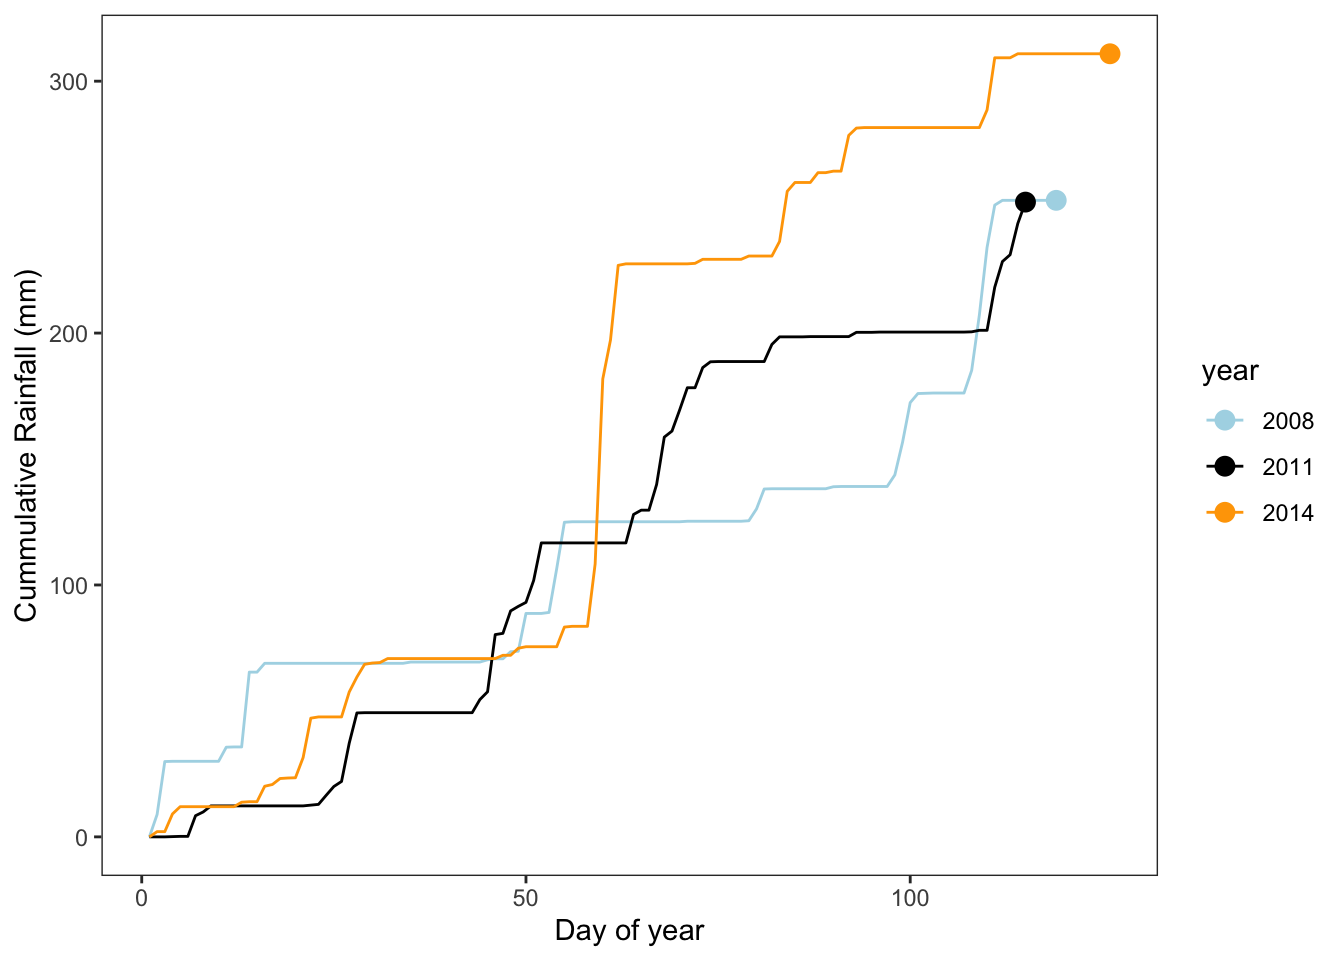
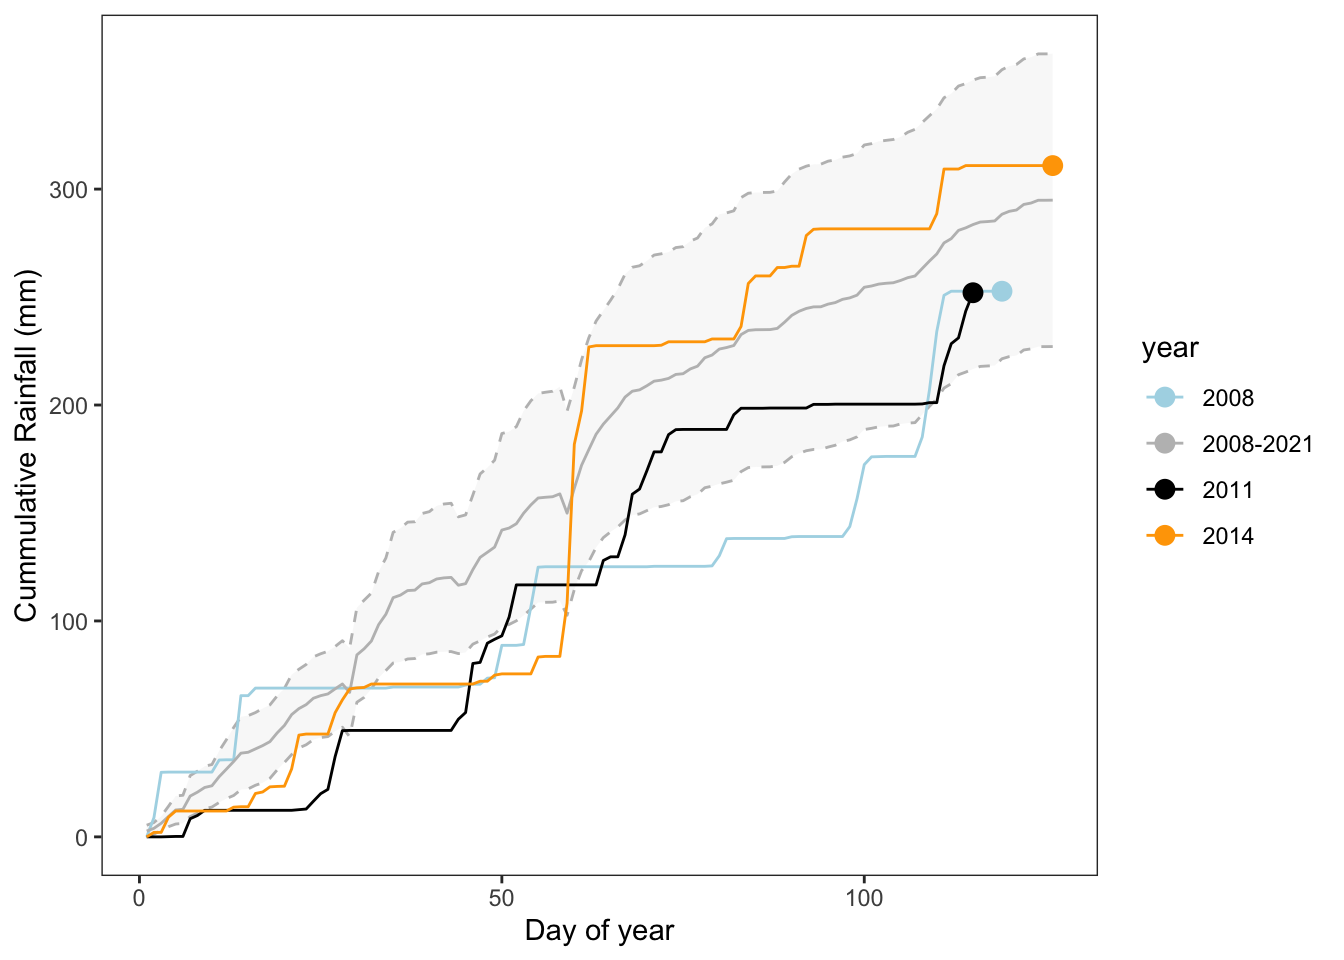
Build site.

diff --git a/docs/climate_data.html b/docs/climate_data.html
@@ -13,7 +13,7 @@
 
 <title>climate_data</title>
 
-<script src="site_libs/header-attrs-2.18/header-attrs.js"></script>
+<script src="site_libs/header-attrs-2.19/header-attrs.js"></script>
 <script src="site_libs/jquery-3.6.0/jquery-3.6.0.min.js"></script>
 <meta name="viewport" content="width=device-width, initial-scale=1" />
 <link href="site_libs/bootstrap-3.3.5/css/cosmo.min.css" rel="stylesheet" />
@@ -380,7 +380,7 @@ class="glyphicon glyphicon-ok text-success" aria-hidden="true"></span>
 <div class="tab-content">
 <div id="summary" class="tab-pane fade in active">
 <p>
-<strong>Last updated:</strong> 2023-02-24
+<strong>Last updated:</strong> 2023-03-08
 </p>
 <p>
 <strong>Checks:</strong> <span
@@ -511,15 +511,15 @@ project makes it easier to run your code on other machines.</p>
 <div class="panel panel-default">
 <div class="panel-heading">
 <p class="panel-title">
-<a data-toggle="collapse" data-parent="#workflowr-checks" href="#strongRepositoryversionstrongahrefhttpsgithubcomajpelumslanjaronmicrotreeba907abdcb67bb5e1bf7582fc86e49f3c34dd8fftargetblankba907aba">
+<a data-toggle="collapse" data-parent="#workflowr-checks" href="#strongRepositoryversionstrongahrefhttpsgithubcomajpelumslanjaronmicrotree434fc9b4fe355ebecb0b87dc1ce0a85cc5d3ff8dtargetblank434fc9ba">
 <span class="glyphicon glyphicon-ok text-success"
 aria-hidden="true"></span> <strong>Repository version:</strong>
-<a href="https://github.com/ajpelu/ms_lanjaron_micro/tree/ba907abdcb67bb5e1bf7582fc86e49f3c34dd8ff" target="_blank">ba907ab</a>
+<a href="https://github.com/ajpelu/ms_lanjaron_micro/tree/434fc9b4fe355ebecb0b87dc1ce0a85cc5d3ff8d" target="_blank">434fc9b</a>
 </a>
 </p>
 </div>
 <div
[2 lines of base64/hex data omitted]
 class="panel-collapse collapse">
 <div class="panel-body">
 <p>
@@ -529,7 +529,7 @@ reproducibility.
 </p>
 <p>
 The results in this page were generated with repository version
-<a href="https://github.com/ajpelu/ms_lanjaron_micro/tree/ba907abdcb67bb5e1bf7582fc86e49f3c34dd8ff" target="_blank">ba907ab</a>.
+<a href="https://github.com/ajpelu/ms_lanjaron_micro/tree/434fc9b4fe355ebecb0b87dc1ce0a85cc5d3ff8d" target="_blank">434fc9b</a>.
 See the <em>Past versions</em> tab to see a history of the changes made
 to the R Markdown and HTML files.
 </p>
@@ -544,16 +544,7 @@ were generated:
 </p>
 <pre><code>
 Ignored files:
-    Ignored:    .DS_Store
-    Ignored:    .Rhistory
     Ignored:    .Rproj.user/
-    Ignored:    analysis/.DS_Store
-    Ignored:    data/.DS_Store
-    Ignored:    data/geo/.DS_Store
-    Ignored:    output/.DS_Store
-
-Unstaged changes:
-    Modified:   analysis/index.Rmd
 
 </code></pre>
 <p>
@@ -599,6 +590,40 @@ Message
 </tr>
 </thead>
 <tbody>
+<tr>
+<td>
+Rmd
+</td>
+<td>
+<a href="https://github.com/ajpelu/ms_lanjaron_micro/blob/434fc9b4fe355ebecb0b87dc1ce0a85cc5d3ff8d/analysis/climate_data.Rmd" target="_blank">434fc9b</a>
+</td>
+<td>
+ajpelu
+</td>
+<td>
+2023-03-08
+</td>
+<td>
+ADD avg
+</td>
+</tr>
+<tr>
+<td>
+html
+</td>
+<td>
+<a href="https://rawcdn.githack.com/ajpelu/ms_lanjaron_micro/c8279ce2e6316bf3c30218221a30ce7551ea2c98/docs/climate_data.html" target="_blank">c8279ce</a>
+</td>
+<td>
+ajpelu
+</td>
+<td>
+2023-02-24
+</td>
+<td>
+Build site.
+</td>
+</tr>
 <tr>
 <td>
 html
@@ -848,17 +873,47 @@ ajpelu
 </div>
 <div id="cummulative-precipitation" class="section level2">
 <h2>Cummulative precipitation</h2>
-<pre class="r"><code>prec_cum_line &lt;- 
-  pre_cum %&gt;% 
+<pre class="r"><code>prec_cum_mean &lt;- climate %&gt;% 
+  mutate(doy = lubridate::yday(date), 
+         year = lubridate::year(date)) %&gt;% 
   group_by(year) %&gt;% 
-  mutate(cum = cumsum(prec))
+  mutate(cum = cumsum(prec)) %&gt;% 
+  dplyr::select(doy, cum, year) %&gt;% 
+  group_by(doy) %&gt;% 
+  summarise(mean = mean(cum, na.rm=TRUE),
+          sd = sd(cum, na.rm = TRUE),
+          se = sd/sqrt(length(cum))) %&gt;% 
+  rename(cum = mean) %&gt;% 
+  mutate(year = as.character(&quot;2008-2021&quot;))
+
+prec_cum_line &lt;- 
+  pre_cum %&gt;% 
+  mutate(year = as.factor(year)) %&gt;% 
+  group_by(year) %&gt;% 
+  mutate(cum = cumsum(prec)) %&gt;% 
+  dplyr::select(doy, year, cum) %&gt;% 
+  mutate(year = as.character(year)) %&gt;% 
+  relocate(year, .after = doy)
 
 points &lt;- prec_cum_line %&gt;% 
  group_by(year) %&gt;% 
   filter(doy ==  max(doy))
+prec_cum_line_avg &lt;- 
+  bind_rows(prec_cum_line, prec_cum_mean) %&gt;%
+  filter(doy &lt; 127) %&gt;% 
+  rowwise() %&gt;% 
+  mutate(days_to_sampling = case_when(
+    year == &quot;2008&quot; ~ (doy - 119), 
+    year == &quot;2011&quot; ~ (doy - 115), 
+    year == &quot;2014&quot; ~ (doy - 126), 
+    year == &quot;2008-2021&quot; ~ (doy - 126))) 
+    
 
-prec_cum_line %&gt;% 
+prec_cum_line_avg %&gt;% 
   ggplot(aes(x=doy, y=cum, col=as.factor(year))) +
+  geom_ribbon(aes(ymin = cum - se, ymax = cum + se), 
+              fill=&quot;gray&quot;, alpha = .1, linetype = 2, 
+              show.legend = FALSE) + 
   geom_line() +
   theme_bw() + 
   theme(
@@ -866,11 +921,19 @@ prec_cum_line %&gt;%
   ) +
   ylab(&quot;Cummulative Rainfall (mm)&quot;) +
   xlab(&quot;Day of year&quot;) + 
-  scale_color_manual(values=c(&quot;lightblue&quot;, &quot;black&quot;, &quot;orange&quot;), 
+  scale_color_manual(values=c(&quot;lightblue&quot;, &quot;gray&quot;, &quot;black&quot;, &quot;orange&quot;), 
                      name = &quot;year&quot;) +
   geom_point(data = points, 
              aes(x=doy, y=cum), 
-             size = 3)</code></pre>
+             size = 3) </code></pre>
+<pre><code>Warning in max(ids, na.rm = TRUE): no non-missing arguments to max; returning
+-Inf
+
+Warning in max(ids, na.rm = TRUE): no non-missing arguments to max; returning
+-Inf
+
+Warning in max(ids, na.rm = TRUE): no non-missing arguments to max; returning
+-Inf</code></pre>
 <p><img src="figure/climate_data.Rmd/unnamed-chunk-7-1.png" width="672" style="display: block; margin: auto;" /></p>
 <p>
 <button type="button" class="btn btn-default btn-xs btn-workflowr btn-workflowr-fig" data-toggle="collapse" data-target="#fig-unnamed-chunk-7-1">
@@ -924,44 +987,7 @@ points %&gt;%
   theme(
     panel.grid = element_blank()
   ) </code></pre>
-<p><img src="figure/climate_data.Rmd/unnamed-chunk-8-1.png" width="672" style="display: block; margin: auto;" /></p>
-<p>
-<button type="button" class="btn btn-default btn-xs btn-workflowr btn-workflowr-fig" data-toggle="collapse" data-target="#fig-unnamed-chunk-8-1">
-Past versions of unnamed-chunk-8-1.png
-</button>
-</p>
-<div id="fig-unnamed-chunk-8-1" class="collapse">
-<div class="table-responsive">
-<table class="table table-condensed table-hover">
-<thead>
-<tr>
-<th>
-Version
-</th>
-<th>
-Author
-</th>
-<th>
-Date
-</th>
-</tr>
-</thead>
-<tbody>
-<tr>
-<td>
-<a href="https://github.com/ajpelu/ms_lanjaron_micro/blob/ba907abdcb67bb5e1bf7582fc86e49f3c34dd8ff/docs/figure/climate_data.Rmd/unnamed-chunk-8-1.png" target="_blank">ba907ab</a>
-</td>
-<td>
-ajpelu
-</td>
-<td>
-2023-02-24
-</td>
-</tr>
-</tbody>
-</table>
-</div>
-</div>
+<p><img src="figure/climate_data.Rmd/unnamed-chunk-9-1.png" width="672" style="display: block; margin: auto;" /></p>
 </div>
 </div>
 <div id="temperature" class="section level1">
@@ -1000,44 +1026,7 @@ temp &lt;- bind_rows(t2008,t2011,t2014) %&gt;% dplyr::select(-prec)</code></pre>
   theme(
     panel.grid = element_blank()
   ) </code></pre>
-<p><img src="figure/climate_data.Rmd/unnamed-chunk-10-1.png" width="672" style="display: block; margin: auto;" /></p>
-<p>
-<button type="button" class="btn btn-default btn-xs btn-workflowr btn-workflowr-fig" data-toggle="collapse" data-target="#fig-unnamed-chunk-10-1">
-Past versions of unnamed-chunk-10-1.png
-</button>
-</p>
-<div id="fig-unnamed-chunk-10-1" class="collapse">
-<div class="table-responsive">
-<table class="table table-condensed table-hover">
-<thead>
-<tr>
-<th>
-Version
-</th>
-<th>
-Author
-</th>
-<th>
-Date
-</th>
-</tr>
-</thead>
-<tbody>
-<tr>
-<td>
-<a href="https://github.com/ajpelu/ms_lanjaron_micro/blob/ba907abdcb67bb5e1bf7582fc86e49f3c34dd8ff/docs/figure/climate_data.Rmd/unnamed-chunk-10-1.png" target="_blank">ba907ab</a>
-</td>
-<td>
-ajpelu
-</td>
-<td>
-2023-02-24
-</td>
-</tr>
-</tbody>
-</table>
-</div>
-</div>
+<p><img src="figure/climate_data.Rmd/unnamed-chunk-11-1.png" width="672" style="display: block; margin: auto;" /></p>
 <pre class="r"><code>temp %&gt;% 
   dplyr::select(tmin, tmax, tmed, year) %&gt;% 
   group_by(year) %&gt;% 
@@ -1122,12 +1111,12 @@ Session information
 <div id="workflowr-sessioninfo" class="collapse">
 <pre class="r"><code>sessionInfo()</code></pre>
 <pre><code>R version 4.2.1 (2022-06-23)
-Platform: aarch64-apple-darwin20 (64-bit)
-Running under: macOS Monterey 12.3.1
+Platform: x86_64-apple-darwin17.0 (64-bit)
+Running under: macOS Big Sur ... 10.16
 
 Matrix products: default
-BLAS:   /Library/Frameworks/R.framework/Versions/4.2-arm64/Resources/lib/libRblas.0.dylib
-LAPACK: /Library/Frameworks/R.framework/Versions/4.2-arm64/Resources/lib/libRlapack.dylib
+BLAS:   /Library/Frameworks/R.framework/Versions/4.2/Resources/lib/libRblas.0.dylib
+LAPACK: /Library/Frameworks/R.framework/Versions/4.2/Resources/lib/libRlapack.dylib
 
 locale:
 [1] en_US.UTF-8/en_US.UTF-8/en_US.UTF-8/C/en_US.UTF-8/en_US.UTF-8
@@ -1137,7 +1126,7 @@ attached base packages:
 
 other attached packages:
  [1] kableExtra_1.3.4 janitor_2.1.0    here_1.0.1       forcats_0.5.2   
- [5] stringr_1.4.1    dplyr_1.0.10     purrr_0.3.5      readr_2.1.3     
+ [5] stringr_1.5.0    dplyr_1.0.10     purrr_0.3.4      readr_2.1.2     
  [9] tidyr_1.2.1      tibble_3.1.8     ggplot2_3.4.0    tidyverse_1.3.2 
 [13] workflowr_1.7.0 
 
@@ -1151,22 +1140,22 @@ loaded via a namespace (and not attached):
 [19] git2r_0.30.1        cli_3.6.0           rvest_1.0.3        
 [22] xml2_1.3.3          labeling_0.4.2      sass_0.4.4         
 [25] scales_1.2.1        callr_3.7.3         systemfonts_1.0.4  
-[28] digest_0.6.31       rmarkdown_2.18      svglite_2.1.0      
+[28] digest_0.6.31       rmarkdown_2.19      svglite_2.1.0      
 [31] pkgconfig_2.0.3     htmltools_0.5.4     dbplyr_2.2.1       
-[34] fastmap_1.1.0       highr_0.9           rlang_1.0.6        
+[34] fastmap_1.1.0       highr_0.10          rlang_1.0.6        
 [37] readxl_1.4.1        rstudioapi_0.14     jquerylib_0.1.4    
 [40] generics_0.1.3      farver_2.1.1        jsonlite_1.8.4     
-[43] vroom_1.6.0         googlesheets4_1.0.1 magrittr_2.0.3     
-[46] Rcpp_1.0.9          munsell_0.5.0       fansi_1.0.3        
+[43] vroom_1.5.7         googlesheets4_1.0.1 magrittr_2.0.3     
+[46] Rcpp_1.0.9.5        munsell_0.5.0       fansi_1.0.3        
 [49] lifecycle_1.0.3     stringi_1.7.8       whisker_0.4        
 [52] yaml_2.3.7          snakecase_0.11.0    grid_4.2.1         
 [55] parallel_4.2.1      promises_1.2.0.1    crayon_1.5.2       
 [58] haven_2.5.1         hms_1.1.2           knitr_1.41         
 [61] ps_1.7.1            pillar_1.8.1        reprex_2.0.2       
-[64] glue_1.6.2          evaluate_0.18       getPass_0.2-2      
+[64] glue_1.6.2          evaluate_0.19       getPass_0.2-2      
 [67] modelr_0.1.9        vctrs_0.5.1         tzdb_0.3.0         
 [70] httpuv_1.6.8        cellranger_1.1.0    gtable_0.3.1       
-[73] assertthat_0.2.1    cachem_1.0.6        xfun_0.35          
+[73] assertthat_0.2.1    cachem_1.0.6        xfun_0.36          
 [76] broom_1.0.1         later_1.3.0         googledrive_2.0.0  
 [79] viridisLite_0.4.1   gargle_1.2.1        ellipsis_0.3.2     </code></pre>
 </div>

diff --git a/docs/site_libs/header-attrs-2.19/header-attrs.js b/docs/site_libs/header-attrs-2.19/header-attrs.js
@@ -1,0 +1,12 @@
+// Pandoc 2.9 adds attributes on both header and div. We remove the former (to
+// be compatible with the behavior of Pandoc < 2.8).
+document.addEventListener('DOMContentLoaded', function(e) {
+  var hs = document.querySelectorAll("div.section[class*='level'] > :first-child");
+  var i, h, a;
+  for (i = 0; i < hs.length; i++) {
+    h = hs[i];
+    if (!/^h[1-6]$/i.test(h.tagName)) continue;  // it should be a header h1-h6
+    a = h.attributes;
+    while (a.length > 0) h.removeAttribute(a[0].name);
+  }
+});
